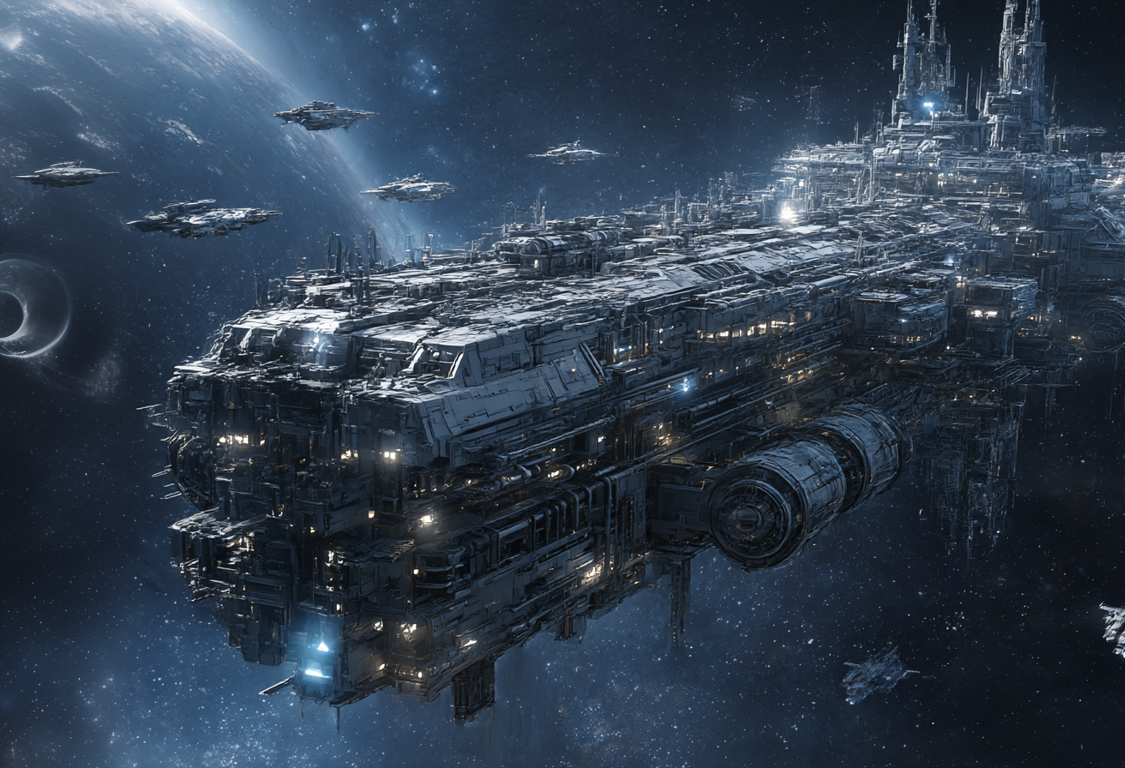
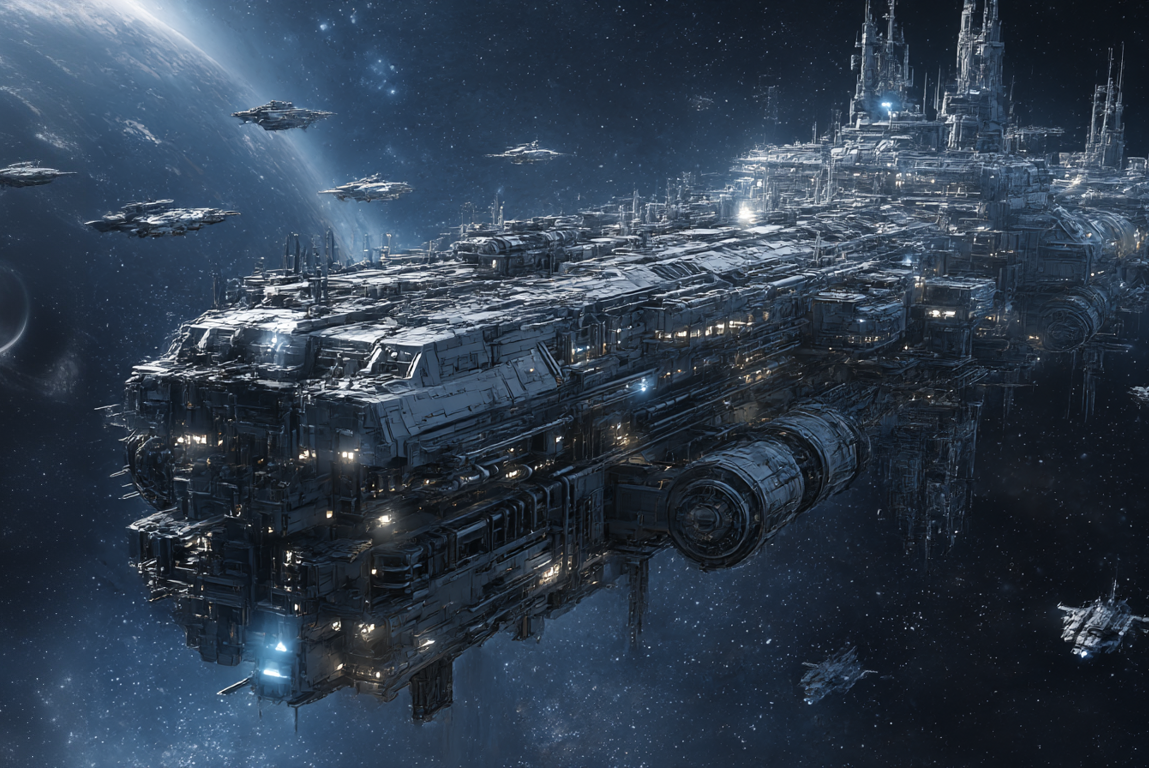
Visual enhancements: terrain blending, noise jitter, elevation shading, coastline transitions, space improvements, unit rendering overhaul
- Add per-tile color noise variation and neighbor-based terrain blending
- Add elevation-based shading and shallow water transitions near coastlines
- Space: nebula edge fading, star glow, nebula hotspot terrain type
- Space: stars now white-yellow, darker void/space/dust tiles
- Space: huge asteroid clusters, reduced ore spawn rates
- Space: Space Guild rendered as large circular overlay like CC
- Units: circular team-color border with glow instead of hex outlines
- Units: 20% larger tokens, Command Ship uses mothership2.png on board
- Hex gap reduced to 0.3, river width reduced on small/standard maps

diff --git a/src/components/GameBoard.jsx b/src/components/GameBoard.jsx
@@ -27,11 +27,11 @@ const TERRAIN_ELEVATION = {
 }
 const WATER_TERRAINS = new Set(['ocean', 'coast', 'lake', 'river'])
 const SPACE_EMPTY = new Set(['void', 'space', 'dust'])
-const SPACE_DENSE = new Set(['nebula', 'nebula_core', 'nebula_bright'])
+const SPACE_DENSE = new Set(['nebula', 'nebula_core', 'nebula_bright', 'nebula_hotspot'])
 
 const SPACE_ELEVATION = {
   space: 0, void: 0, dust: 0.1,
-  nebula: 0.25, nebula_core: 0.4, nebula_bright: 0.5,
+  nebula: 0.25, nebula_core: 0.4, nebula_bright: 0.5, nebula_hotspot: 0.6,
   asteroid: 0.35, large_asteroid: 0.45, star: 0.8,
 }
 
@@ -284,25 +284,6 @@ export default function GameBoard({
               baseDark = blendColors(baseDark, '#a0a0a8', 0.15)
               break
             }
-          }
-        }
-        if (tile.terrain === 'nebula_bright') {
-          const neighbors = hexNeighborsBoard(r, c, rows, cols)
-          let denseCount = 0
-          for (const [nr, nc] of neighbors) {
-            const nt = tileMap.get(`${nr}-${nc}`)
-            if (nt && SPACE_DENSE.has(nt.terrain)) denseCount++
-          }
-          if (denseCount >= 5) {
-            const [hr, hg, hb] = parseHex(baseColor)
-            baseColor = toHex(hr * 1.4, hg * 1.4, hb * 1.4)
-            const [hdr, hdg, hdb] = parseHex(baseDark)
-            baseDark = toHex(hdr * 1.3, hdg * 1.3, hdb * 1.3)
-          } else if (denseCount >= 4) {
-            const [hr, hg, hb] = parseHex(baseColor)
-            baseColor = toHex(hr * 1.2, hg * 1.2, hb * 1.2)
-            const [hdr, hdg, hdb] = parseHex(baseDark)
-            baseDark = toHex(hdr * 1.15, hdg * 1.15, hdb * 1.15)
           }
         }
 
@@ -1698,7 +1679,7 @@ export default function GameBoard({
                 >
                   <div className="absolute inset-0 rounded-full overflow-hidden" style={{ border: `2px solid ${pColor}`, boxShadow: `0 0 8px ${pColor}40` }}>
                     <img
-                      src={getUnitIcon(cc.wg_unit_types)}
+                      src={cc.wg_unit_types?.name === 'Command Ship' ? '/assets/mothership2.png' : getUnitIcon(cc.wg_unit_types)}
                       alt={cc.wg_unit_types?.name}
                       className="w-full h-full object-cover"
                     />

diff --git a/src/lib/terrainGen.js b/src/lib/terrainGen.js
@@ -17,8 +17,9 @@ export const TERRAIN = {
   SAND:            { id: 'sand',            name: 'Sand',            color: '#807550', darkColor: '#554d34' },
   VOID:            { id: 'void',            name: 'Void',            color: '#0a0e12', darkColor: '#0a0e12' },
   NEBULA:          { id: 'nebula',          name: 'Nebula',          color: '#130c28', darkColor: '#0a0618' },
-  NEBULA_CORE:     { id: 'nebula_core',     name: 'Nebula Core',     color: '#371744', darkColor: '#1e0d2d' },
-  NEBULA_BRIGHT:   { id: 'nebula_bright',   name: 'Nebula Core',     color: '#552662', darkColor: '#321441' },
+  NEBULA_CORE:     { id: 'nebula_core',     name: 'Nebula Core',     color: '#2c1236', darkColor: '#180a24' },
+  NEBULA_BRIGHT:   { id: 'nebula_bright',   name: 'Nebula Bright',   color: '#441e4e', darkColor: '#281034' },
+  NEBULA_HOTSPOT:  { id: 'nebula_hotspot',  name: 'Nebula Hotspot',  color: '#6a3080', darkColor: '#3e1a4e' },
   ASTEROID:        { id: 'asteroid',        name: 'Asteroid',        color: '#3a3228', darkColor: '#252018' },
   LARGE_ASTEROID:  { id: 'large_asteroid',  name: 'Large Asteroid',  color: '#4a4238', darkColor: '#302a20' },
   STAR:            { id: 'star',            name: 'Star',            color: '#e8e0c8', darkColor: '#a09880' },
@@ -906,6 +907,23 @@ export function generateSpaceTerrain(rows, cols, seed) {
             nt2.terrain = 'nebula'
           }
         }
+      }
+    }
+  }
+
+  // Place nebula hotspots at centers of bright nebula regions
+  const denseSet = new Set(['nebula', 'nebula_core', 'nebula_bright'])
+  for (let r = 0; r < rows; r++) {
+    for (let c = 0; c < cols; c++) {
+      const t = tileAt(r, c)
+      if (t.terrain !== 'nebula_bright') continue
+      const neighbors = hexNeighbors(r, c, rows, cols)
+      let denseCount = 0
+      for (const [nr, nc] of neighbors) {
+        if (denseSet.has(tileAt(nr, nc).terrain)) denseCount++
+      }
+      if (denseCount >= 5) {
+        t.terrain = 'nebula_hotspot'
       }
     }
   }
